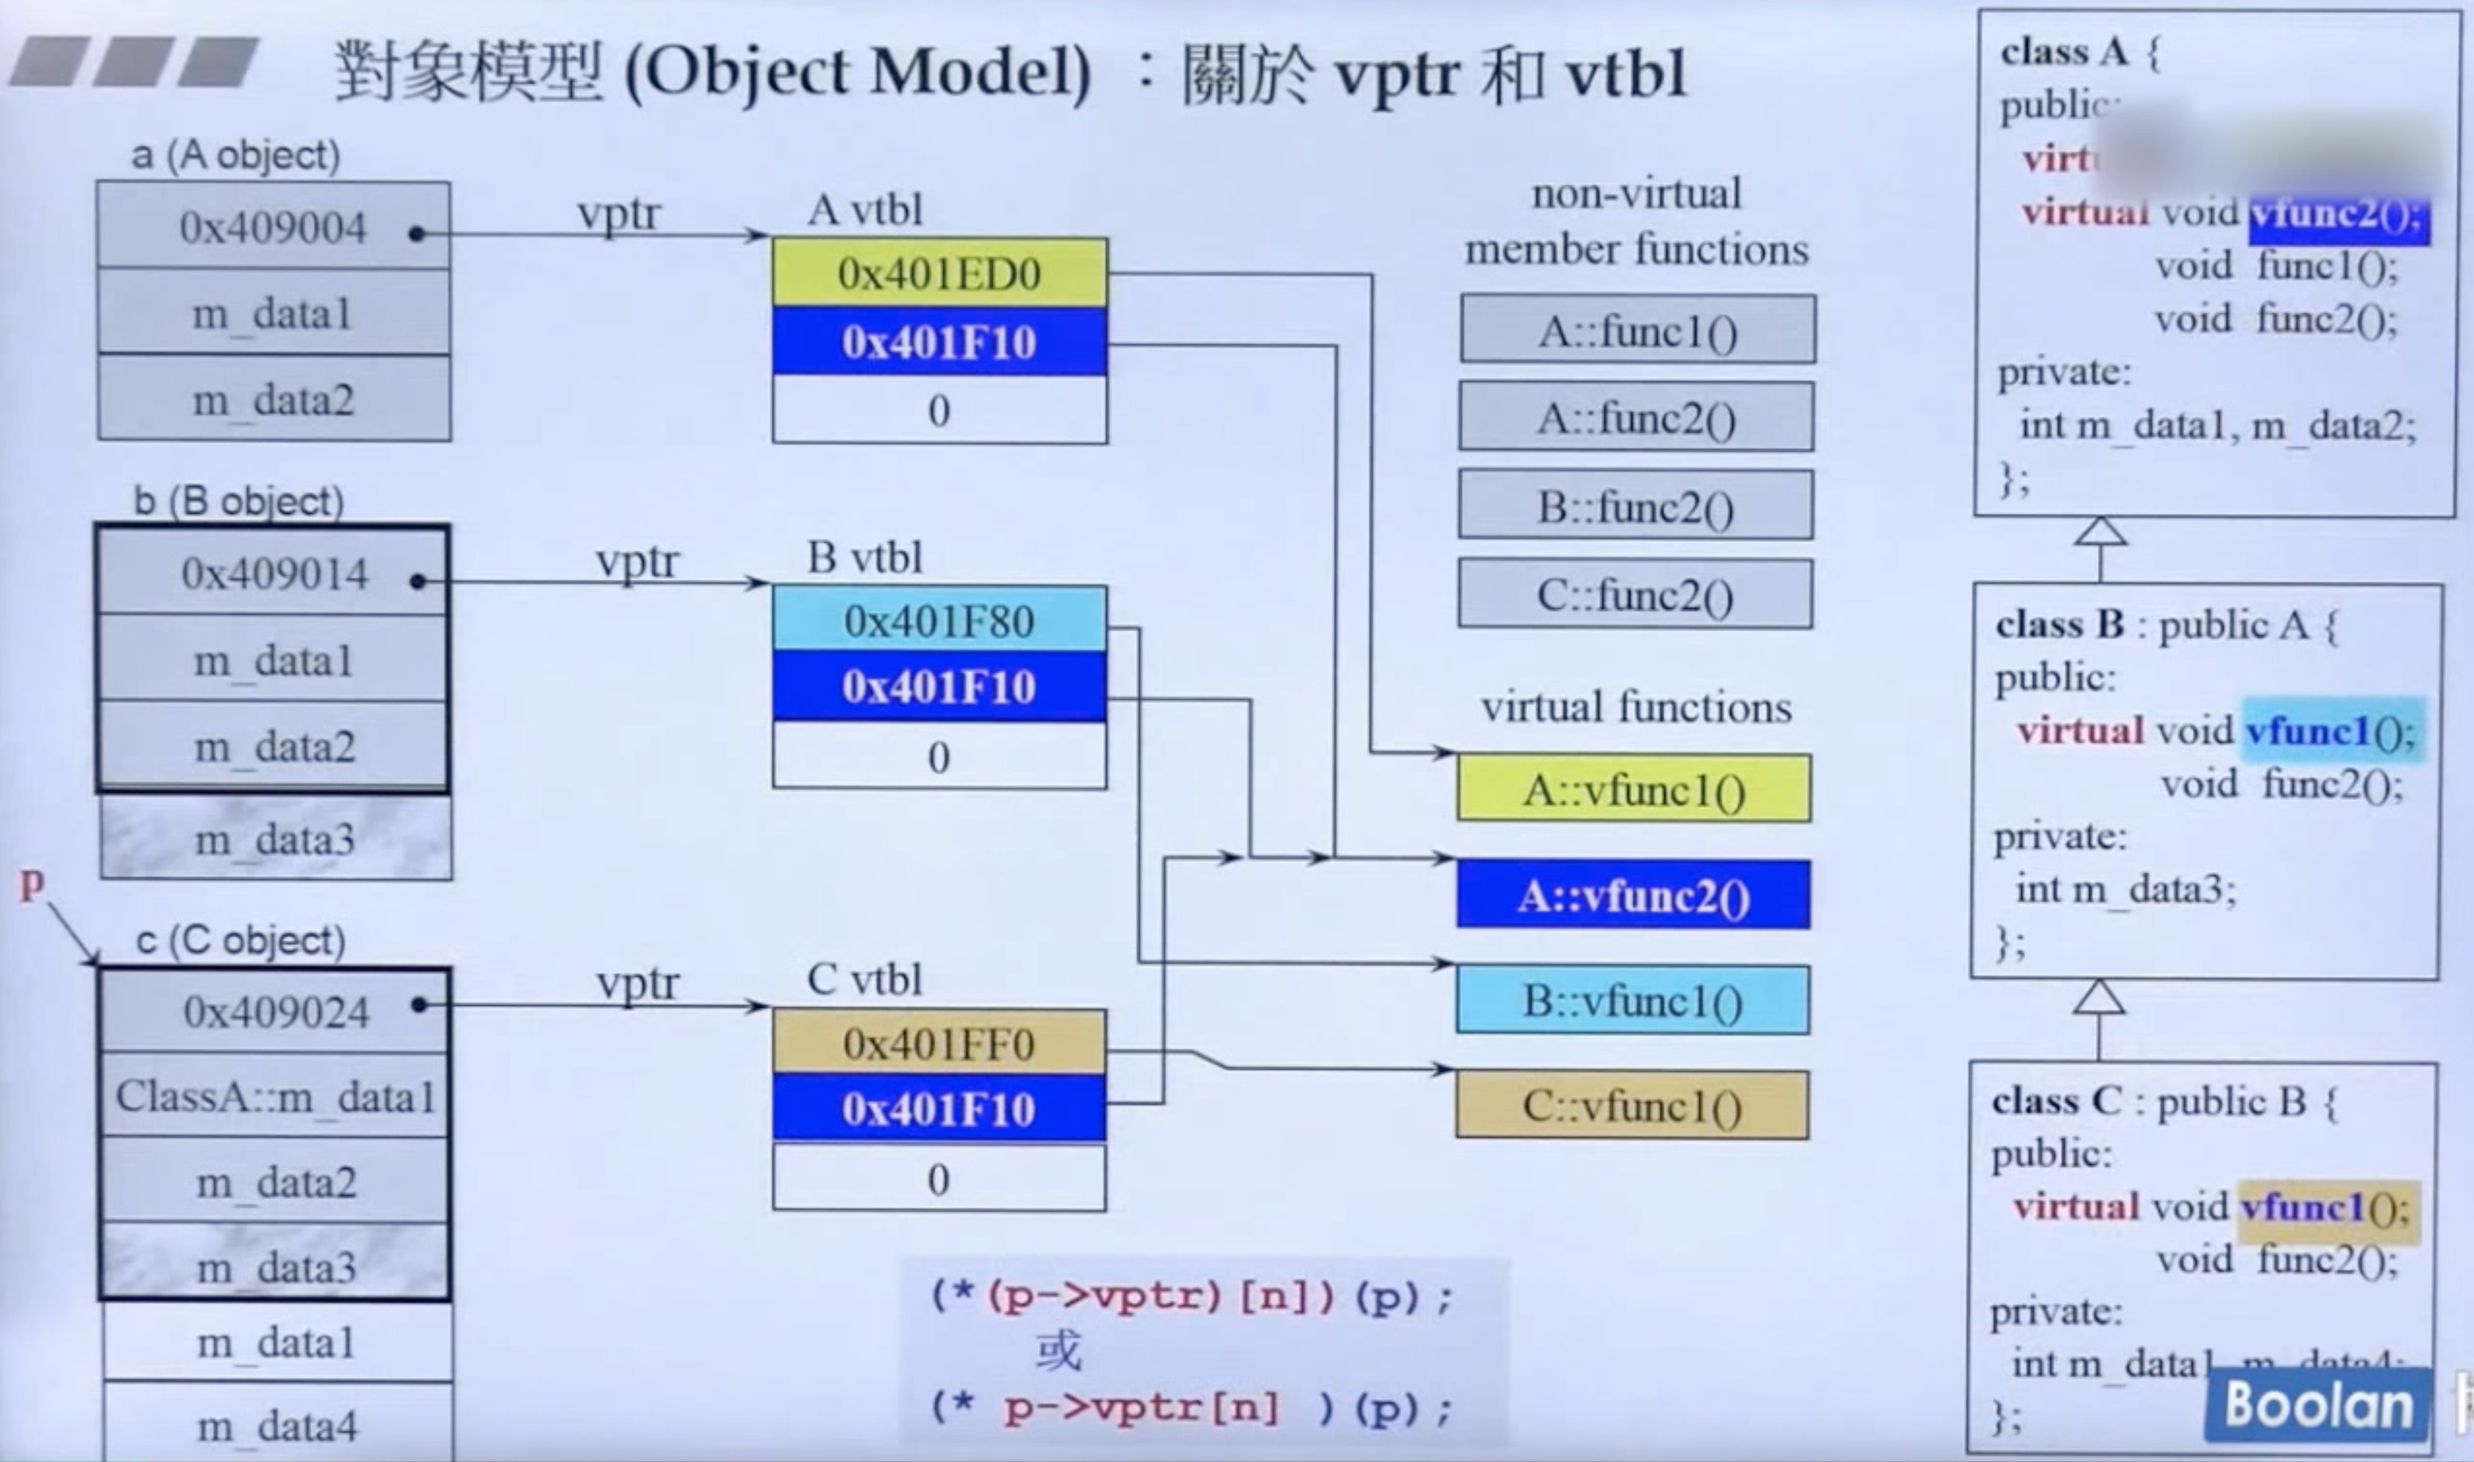
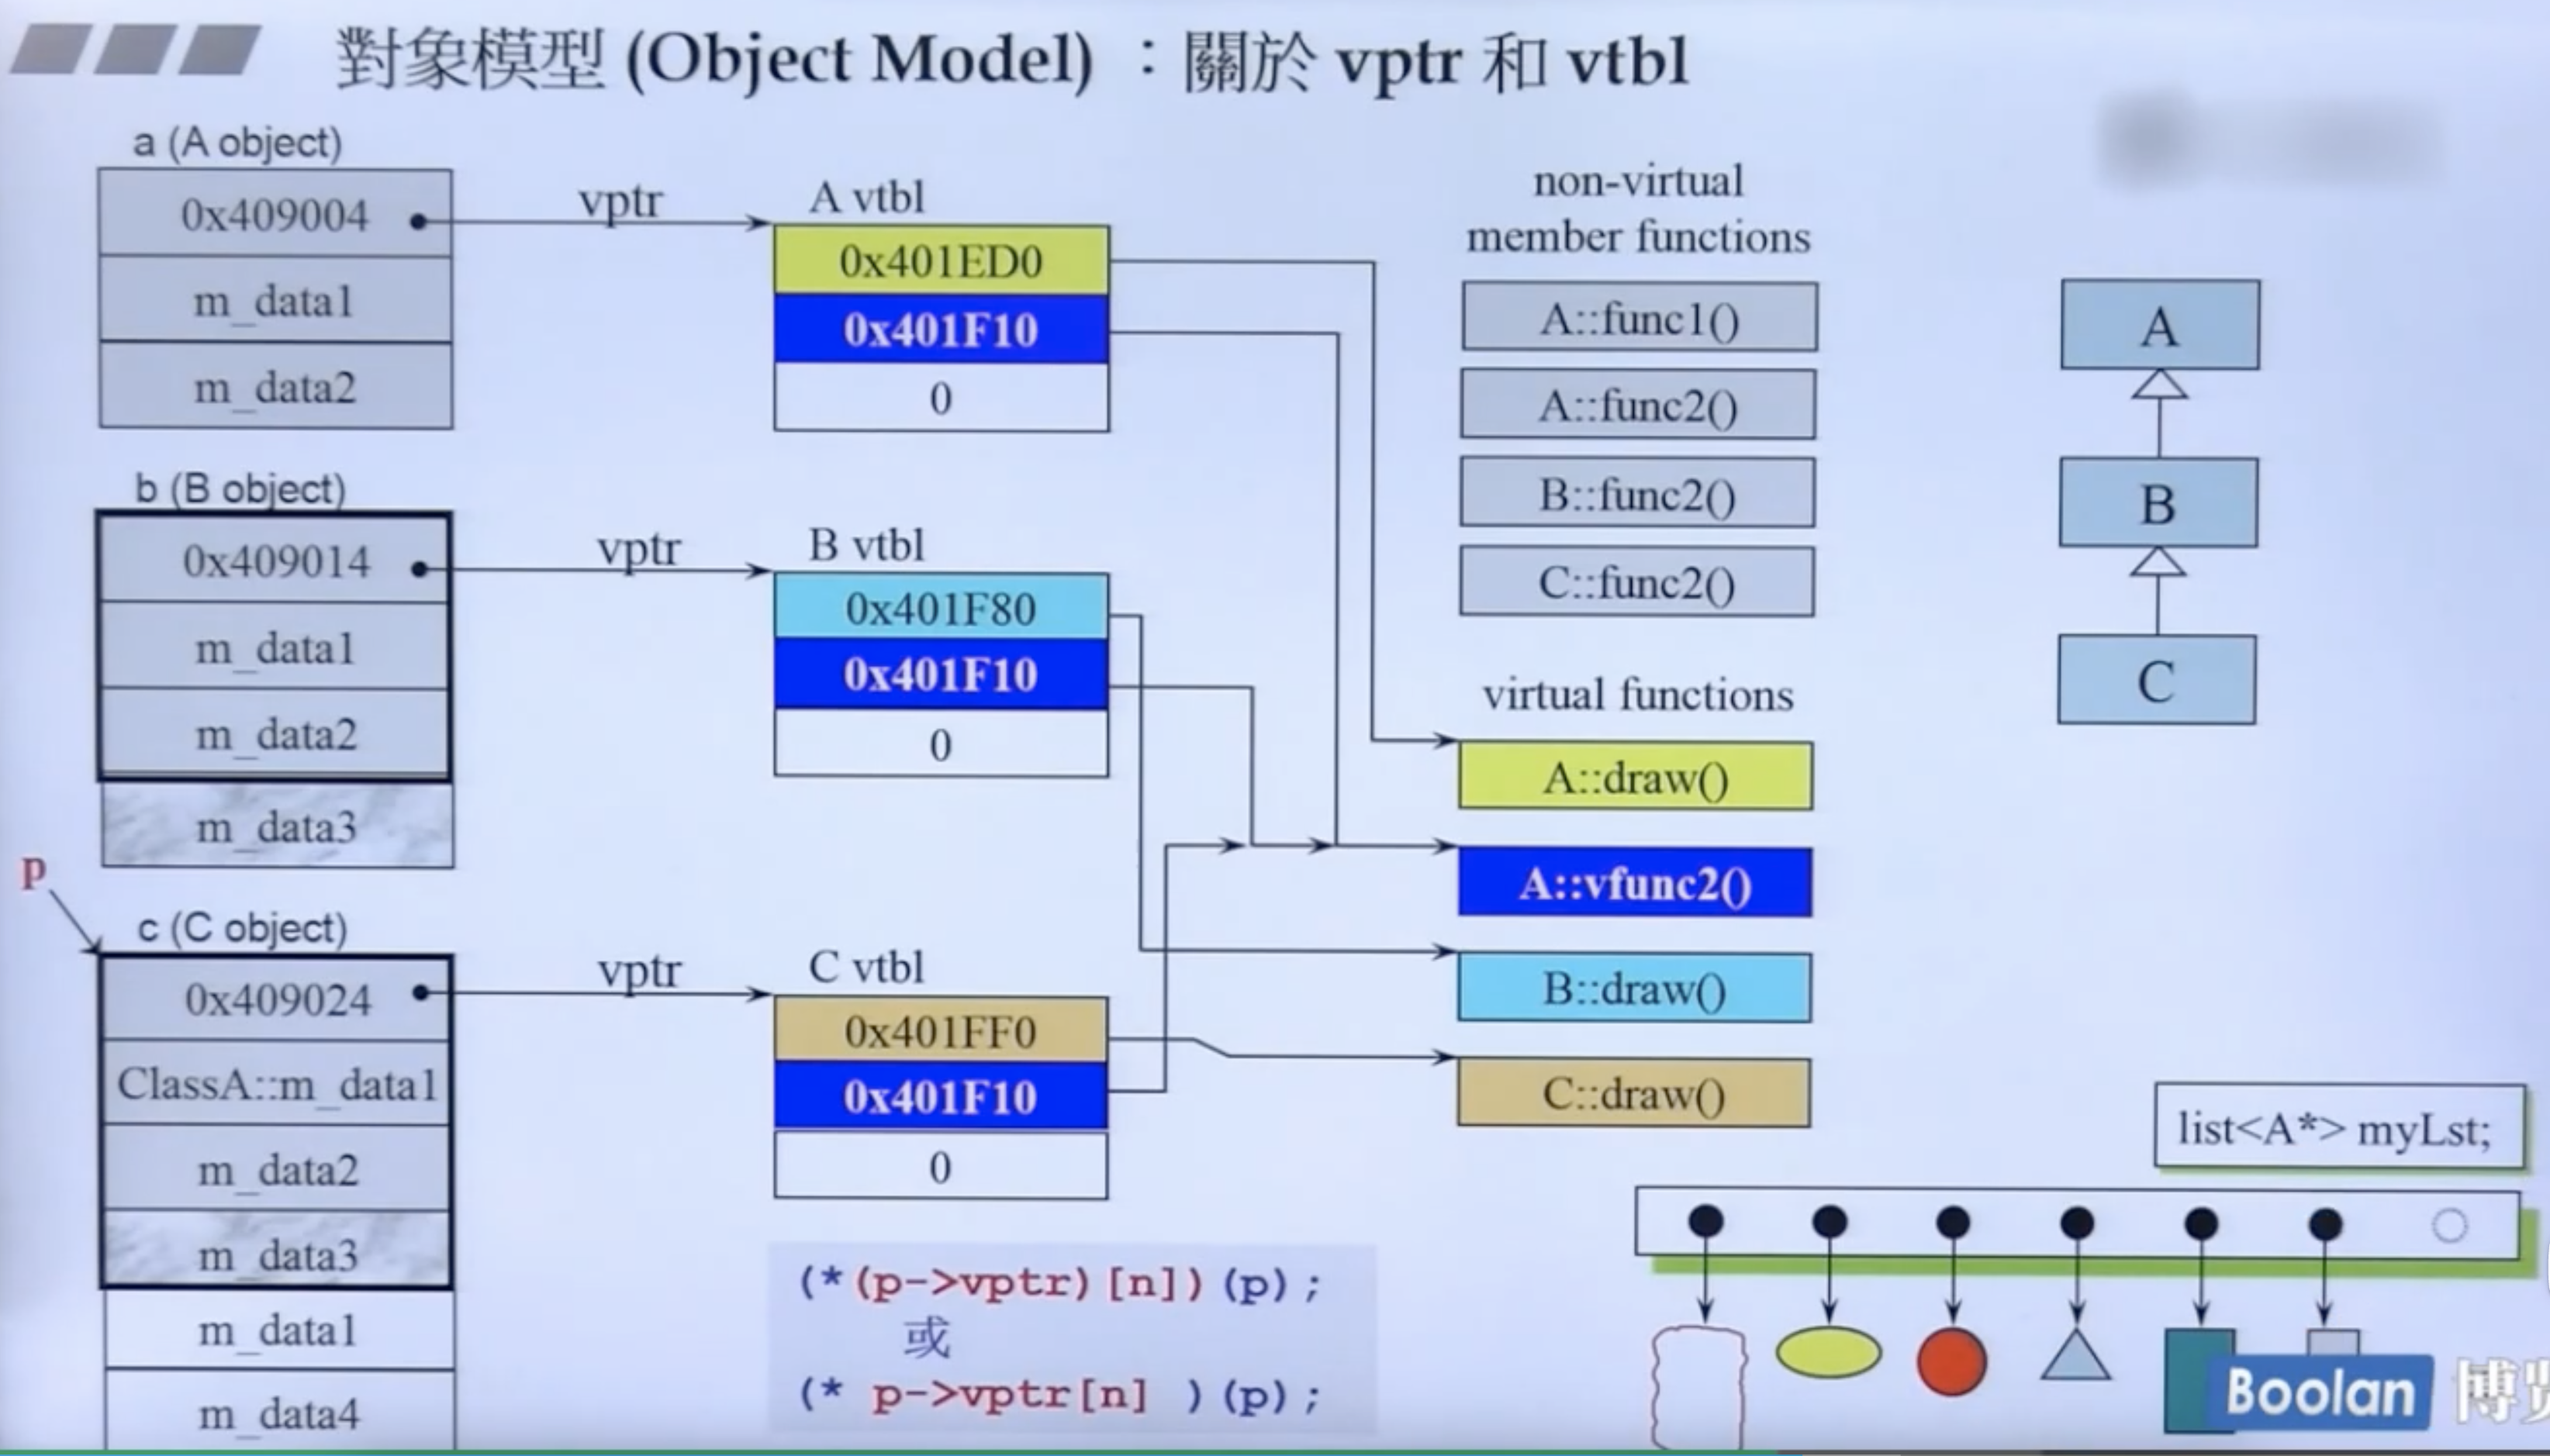
多态

Changed region(s): [[0.0, 0.0, 1.0, 1.0], [0.7759, 0.0, 1.0, 0.5559], [0.8069, 0.5559, 0.9, 0.6177]]

diff --git a/langs/cplusplus/C++面向对象高级编程(下).md b/langs/cplusplus/C++面向对象高级编程(下).md
@@ -163,9 +163,29 @@ Derived析构-->Component析构-->Base析构;
 
 ## vptr和vtbl
 
+继承时重写`override`的实现：
+
+![image-20210513213205164](../../images/cpp/vptr-vtbl1.png)
+
+
+
+多态的实现：
+
 ![image-20210513082419103](../../images/cpp/vptr-vtbl.png)
 
-vtbl: virtual table, table里面放的都是函数指针！指向虚函数所在的位置！
+
+
+父子类的多态实例（MFC）：
+
+![image-20210513220317284](../../images/cpp/MFC-CDocument.png)
+
+
+
+vtbl: virtual table, table里面放的都是函数指针！指向虚函数所在的位置！此处叫动态绑定！而不再是C语言里的 `call xxx()`的静态绑定！
 
 > 虚指针指向一个虚函数表，虚函数表里保存着每个对象锁含的虚函数的地址
+
+C++类中的所有成员函数，都有个隐藏参数 `this`，实现了多态的指向。
+
+
 
